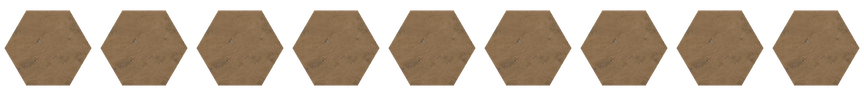
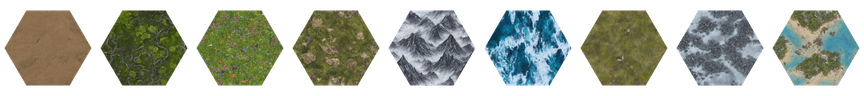
fix: rebuild tile atlases from individual PNGs, fix unit rendering, fix panel display

diff --git a/tools/rebuild_atlases.py b/tools/rebuild_atlases.py
@@ -1,0 +1,85 @@
+"""Regenerate tile atlases from individual tile PNGs."""
+import os
+import json
+from PIL import Image
+
+TILES_DIR = os.path.join(os.path.dirname(os.path.dirname(os.path.abspath(__file__))), "assets", "tiles", "tiles")
+ATLASES_DIR = os.path.join(os.path.dirname(os.path.dirname(os.path.abspath(__file__))), "assets", "tiles", "atlases")
+
+TERRAINS = sorted(["DESERT", "FOREST", "GRASSLAND", "HILLS", "MOUNTAIN", "OCEAN", "PLAINS", "TUNDRA", "WATER_COAST"])
+SIZES = [64, 96, 128, 192, 256]
+
+
+def rebuild_atlas(size: int) -> None:
+    """Build one atlas for the given tile size."""
+    tile_surfaces = []
+    json_data = {}
+
+    for i, terrain in enumerate(TERRAINS):
+        path = os.path.join(TILES_DIR, f"{terrain}_{size}.png")
+        if not os.path.exists(path):
+            print(f"  WARNING: {path} not found, skipping")
+            continue
+        img = Image.open(path).convert("RGBA")
+        tile_surfaces.append(img)
+        json_data[f"{terrain}_{size}"] = {"x": i * size, "y": 0, "w": size, "h": size}
+
+    if not tile_surfaces:
+        print(f"  ERROR: No tiles found for size {size}, skipping")
+        return
+
+    # Pack horizontally
+    total_width = len(tile_surfaces) * size
+    height = size
+    atlas = Image.new("RGBA", (total_width, height))
+
+    for i, tile in enumerate(tile_surfaces):
+        atlas.paste(tile, (i * size, 0))
+
+    # Save PNG
+    atlas_path = os.path.join(ATLASES_DIR, f"atlas_z{size:03d}.png")
+    atlas.save(atlas_path, "PNG")
+
+    # Save JSON
+    json_path = os.path.join(ATLASES_DIR, f"atlas_z{size:03d}.json")
+    with open(json_path, "w") as f:
+        json.dump(json_data, f, indent=2)
+
+    print(f"  Atlas z{size:03d}: {len(tile_surfaces)} tiles, {total_width}x{height}")
+
+
+def verify_atlas(size: int) -> None:
+    """Verify each terrain slot in the atlas has a different center pixel."""
+    atlas_path = os.path.join(ATLASES_DIR, f"atlas_z{size:03d}.png")
+    if not os.path.exists(atlas_path):
+        print(f"  SKIP: {atlas_path} not found")
+        return
+
+    img = Image.open(atlas_path)
+    colors = []
+    for i, terrain in enumerate(TERRAINS):
+        cx = i * size + size // 2
+        cy = size // 2
+        px = img.getpixel((cx, cy))[:3]
+        colors.append((terrain, px))
+
+    unique = len(set(colors))
+    print(f"  Verify z{size:03d}: {unique}/{len(colors)} unique center pixels")
+    for name, px in colors:
+        print(f"    {name}: {px}")
+
+
+def main():
+    os.makedirs(ATLASES_DIR, exist_ok=True)
+
+    for size in SIZES:
+        print(f"Building atlas z{size:03d}...")
+        rebuild_atlas(size)
+
+    print("\nVerifying atlases...")
+    for size in SIZES:
+        verify_atlas(size)
+
+
+if __name__ == "__main__":
+    main()

diff --git a/pygame_app/map/hex_renderer.py b/pygame_app/map/hex_renderer.py
@@ -186,12 +186,18 @@ class HexRenderer:
         max_wx += margin_wx
         max_wy += margin_wy
 
+        # Convert world bounds to hex coordinate bounds
+        min_hx, min_hy = self.world_to_hex(min_wx, min_wy)
+        max_hx, max_hy = self.world_to_hex(max_wx, max_wy)
+
         hexes: Set[Tuple[int, int]] = set()
-        for wx in range(int(min_wx), int(max_wx) + 1, int(HEX_SIZE * 1.5)):
-            for wy in range(int(min_wy), int(max_wy) + 1, int(HEX_SIZE * math.sqrt(3))):
-                hx, hy = self.world_to_hex(wx, wy)
+        for hx in range(min_hx - margin, max_hx + margin + 1):
+            for hy in range(min_hy - margin, max_hy + margin + 1):
                 if (hx, hy) in self.hex_map.tiles:
-                    hexes.add((hx, hy))
+                    wx, wy = self.hex_to_world(hx, hy)
+                    sx, sy = self.camera.world_to_screen(wx, wy)
+                    if 0 <= sx < self.camera.screen_w and 0 <= sy < self.camera.screen_h:
+                        hexes.add((hx, hy))
         return hexes
 
     # ── hex geometry helpers ───────────────────────────────────────────
@@ -494,11 +500,20 @@ class HexRenderer:
 
         # --- 5. Unit markers ---
         units = getattr(game, "units", {})
+        total_units = len(units)
+        units_drawn = 0
         for unit_id, unit in units.items():
             unit_hex = getattr(unit, "position", (0, 0))
             hx, hy = unit_hex
             if (hx, hy) not in visible:
                 continue
+            
+            wx, wy = self.hex_to_world(hx, hy)
+            sx, sy = self.camera.world_to_screen(wx, wy)
+            if not (0 <= sx < surface.get_width() and 0 <= sy < surface.get_height()):
+                continue
+            
+            units_drawn += 1
             wx, wy = self.hex_to_world(hx, hy)
             sx, sy = self.camera.world_to_screen(wx, wy)
             if not (0 <= sx < surface.get_width() and 0 <= sy < surface.get_height()):
@@ -557,6 +572,10 @@ class HexRenderer:
                 surface, hp_colour,
                 (bar_x, bar_y, int(bar_w * hp_ratio), bar_h),
             )
+
+        if units_drawn != total_units:
+            import sys
+            print(f"[HexRenderer] {units_drawn}/{total_units} units drawn. Visible={len(visible)}", file=sys.stderr)
 
         # --- 6. Fog of war ---
         fog_surf = pygame.Surface(

diff --git a/pygame_app/panels/unit_panel.py b/pygame_app/panels/unit_panel.py
@@ -29,16 +29,22 @@ class UnitPanel:
             manager=ui_manager,
         )
         self.unit_buttons: Dict[pygame_gui.elements.UIButton, Any] = {}
+        self._last_unit_keys: tuple = ()
         self._font = pygame.font.SysFont("consolas", 11)
         self._font_bold = pygame.font.SysFont("consolas", 11, bold=True)
 
     def refresh(self, game: Any) -> None:
-        """Rebuild unit buttons from current game state."""
+        """Rebuild unit buttons only when the unit list actually changes."""
+        player_units = [u for u in game.units.values() if u.owner == game.player_civ.name]
+        current_keys = tuple((u.unit_type, u.hp, u.max_hp, u.moves_left, str(getattr(u, "position", (0,0)))) for u in player_units)
+
+        if current_keys == self._last_unit_keys:
+            return
+        self._last_unit_keys = current_keys
+
         for btn in list(self.unit_buttons.keys()):
             btn.kill()
         self.unit_buttons.clear()
-
-        player_units = [u for u in game.units.values() if u.owner == game.player_civ.name]
 
         y = self.MARGIN
         for unit in player_units:

diff --git a/pygame_app/panels/city_panel.py b/pygame_app/panels/city_panel.py
@@ -30,17 +30,23 @@ class CityPanel:
             manager=ui_manager,
         )
         self.city_buttons: Dict[pygame_gui.elements.UIButton, Any] = {}
+        self._last_city_keys: tuple = ()
         self._font = pygame.font.SysFont("consolas", 11)
         self._font_bold = pygame.font.SysFont("consolas", 11, bold=True)
 
     def refresh(self, game: Any) -> None:
-        """Rebuild city buttons from current game state."""
+        """Rebuild city buttons only when the city list actually changes."""
+        player_civ_name = game.player_civ.name
+        cities = [c for c in game.cities.values() if c.owner == player_civ_name]
+        current_keys = tuple(c.name for c in cities)
+
+        if current_keys == self._last_city_keys:
+            return
+        self._last_city_keys = current_keys
+
         for btn in list(self.city_buttons.keys()):
             btn.kill()
         self.city_buttons.clear()
-
-        player_civ_name = game.player_civ.name
-        cities = [c for c in game.cities.values() if c.owner == player_civ_name]
 
         y = self.MARGIN
         for city in cities:
